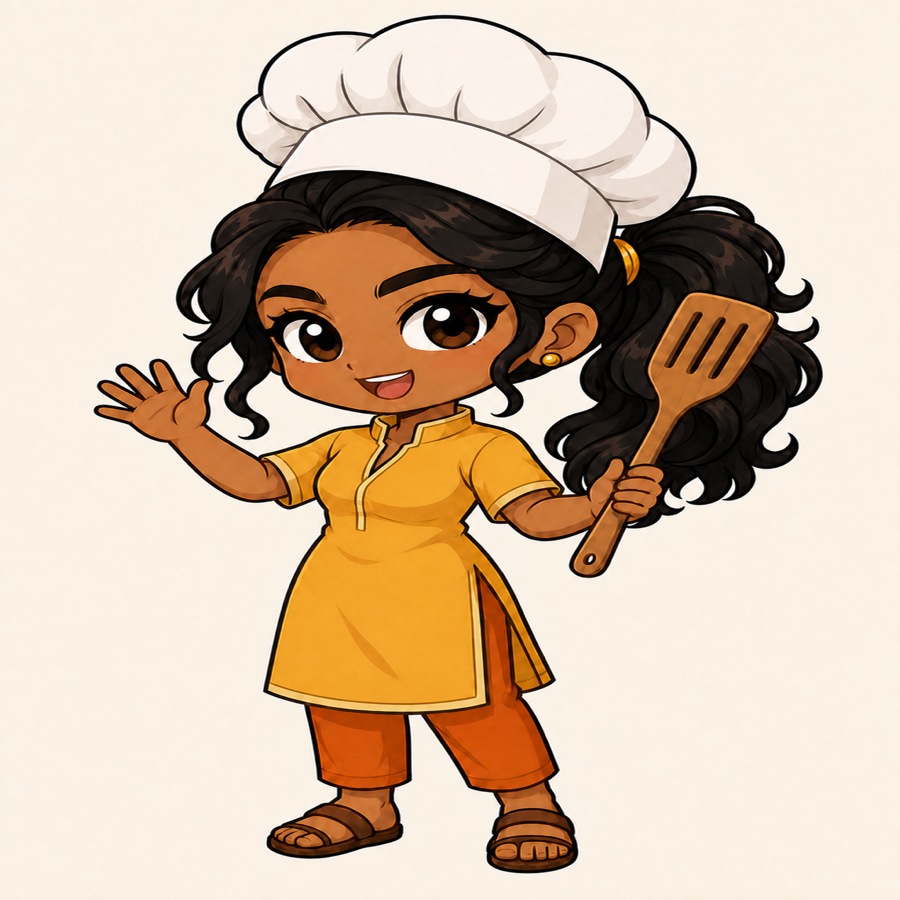
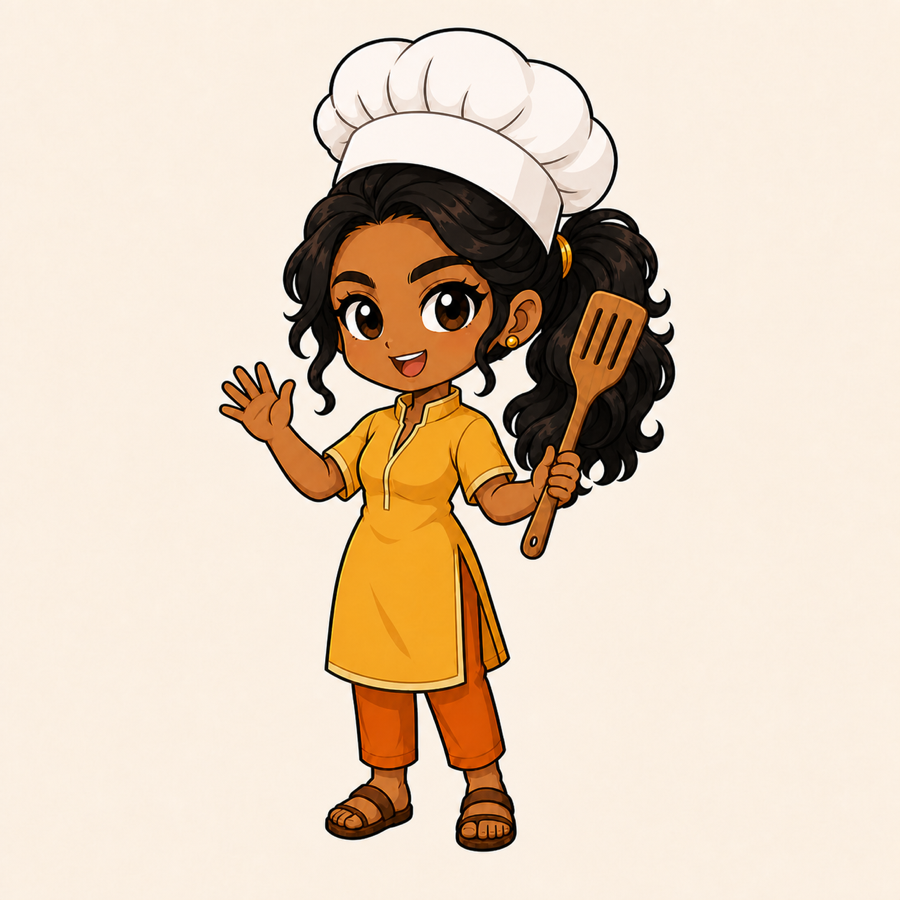
Fix Aanya image proportions

Changed region(s): [[0.0933, 0.0, 0.9333, 0.9956]]

diff --git a/styles.css b/styles.css
@@ -638,8 +638,10 @@ main {
 }
 
 .aanya-companion-art img {
-  width: 100%;
-  height: 100%;
+  width: auto;
+  height: auto;
+  aspect-ratio: 1 / 1;
+  max-width: 100%;
   max-height: 430px;
   object-fit: contain;
 }
